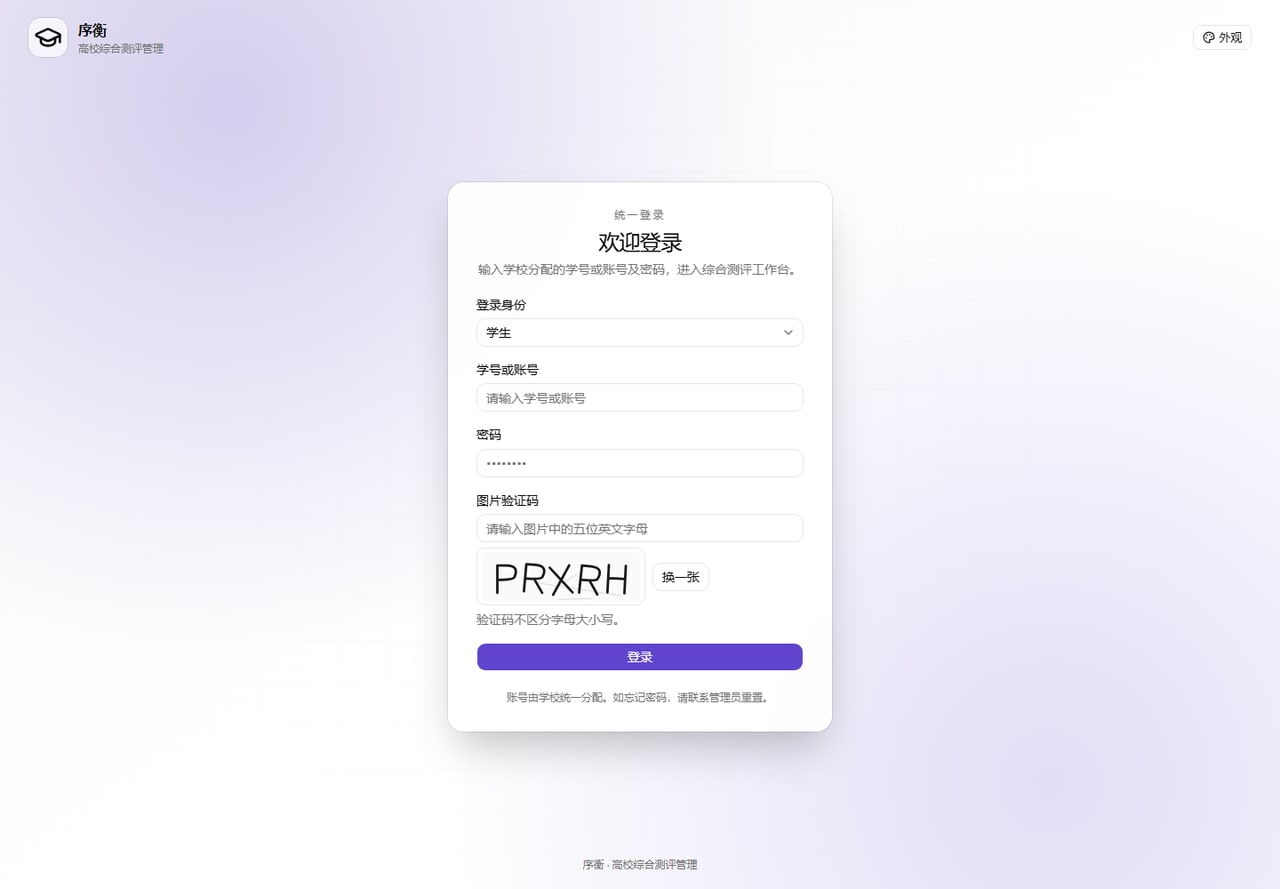
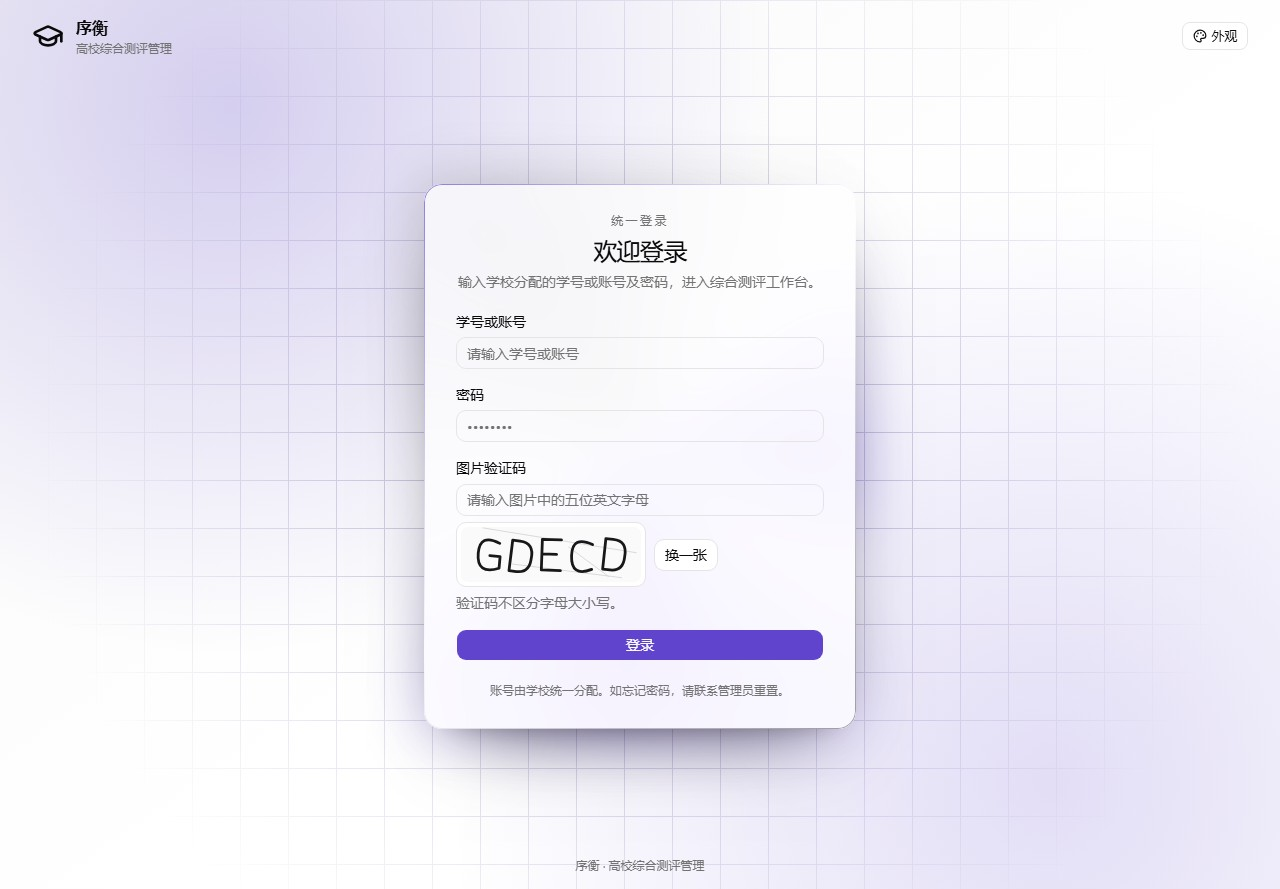
发布 0.3.6：移除登录身份选择，简化登录流程
登录页只保留账号、密码和图片验证码；服务端按账号真实角色认证与授权，不再接收所选身份，避免多一步选择和误导性失败提示。同步更新集成、E2E、HTTP 检查与毕业设计说明。

diff --git a/scripts/test-http.ts b/scripts/test-http.ts
@@ -74,14 +74,14 @@ async function main() {
         await fixture.query('UPDATE "LoginCaptcha" SET "answerHash"=$1 WHERE id=$2', [answerHash, data.id]);
         return { captchaId: data.id, captcha: "abcde" };
       }
-      async credentials(login: string, selectedRole: string, inputPassword = password, captcha?: { captchaId: string; captcha: string }) {
+      async credentials(login: string, inputPassword = password, captcha?: { captchaId: string; captcha: string }) {
         const csrf = await this.json("/api/auth/csrf");
-        const body = new URLSearchParams({ csrfToken: csrf.csrfToken, login, password: inputPassword, role: selectedRole, ...captcha ?? await this.challenge(), callbackUrl: origin, json: "true" });
+        const body = new URLSearchParams({ csrfToken: csrf.csrfToken, login, password: inputPassword, ...captcha ?? await this.challenge(), callbackUrl: origin, json: "true" });
         const response = await this.fetch("/api/auth/callback/credentials", { method: "POST", body });
         return response.json();
       }
       async login(role: string) {
-        await this.credentials(`http-${role.toLowerCase()}`, role === "PUBLISHER" ? "COLLEGE" : role);
+        await this.credentials(`http-${role.toLowerCase()}`);
         const session = await this.json("/api/auth/session"); check(session.user?.role === role, `${role}登录失败`);
       }
       async page(path: string) {
@@ -96,7 +96,7 @@ async function main() {
     check((await anonymous.fetch("/")).status === 307, "匿名工作台须重定向");
     const login = await anonymous.fetch("/login"); check(login.status === 200, "登录页失败");
     const loginHtml = await login.text();
-    check(loginHtml.includes('id="login-role"') && loginHtml.includes('id="login-captcha"'), "实际登录页缺少角色下拉或验证码字段");
+    check(loginHtml.includes('id="login-account"') && loginHtml.includes('id="login-captcha"') && !loginHtml.includes('id="login-role"'), "实际登录页缺少账号或验证码字段，或仍保留身份下拉");
     const assets = [...new Set([...loginHtml.matchAll(/(?:src|href)="([^" ]+\.(?:js|css)(?:\?[^" ]*)?)"/g)].map(m => m[1]))].filter(p => p.startsWith("/_next/"));
     check(assets.length > 0, "缺少页面静态资源");
     for (const path of assets) check((await anonymous.fetch(path)).status === 200, "静态资源不可访问");
@@ -138,13 +138,11 @@ async function main() {
     const college = new Session(), counselor = new Session();
     await college.login("COLLEGE"); await counselor.login("COUNSELOR");
     const invalidEntry = new Session();
-    await invalidEntry.credentials("http-counselor", "ADMIN");
-    check(!(await invalidEntry.json("/api/auth/session")).user, "选择管理员入口不得获得权限");
     const invalidCaptcha = await invalidEntry.challenge();
-    await invalidEntry.credentials("http-counselor", "COUNSELOR", password, { ...invalidCaptcha, captcha: "WRONG" });
-    await invalidEntry.credentials("http-counselor", "COUNSELOR", password, invalidCaptcha);
+    await invalidEntry.credentials("http-counselor", password, { ...invalidCaptcha, captcha: "WRONG" });
+    await invalidEntry.credentials("http-counselor", password, invalidCaptcha);
     check(!(await invalidEntry.json("/api/auth/session")).user, "错误或重放验证码不应登录");
-    results.push({ label: "four role dropdown login, wrong role and CAPTCHA replay denied", status: 200 });
+    results.push({ label: "four roles login without identity selection, wrong and replayed CAPTCHA denied", status: 200 });
     for (const [role, session, title] of [["COLLEGE", college, "学院工作台"], ["COUNSELOR", counselor, "辅导员工作台"]] as const) {
       await workbench(session, role, title);
       check((await session.json("/api/account")).college.id === collegeId, `${role}本人账号归属接口错误`);
@@ -192,10 +190,10 @@ async function main() {
     check((await admin.fetch("/api/admin/settings", { method: "PUT", headers: { "Content-Type": "application/json" }, body: JSON.stringify({ ...settingsPayload(originalSettings), reason: "过期保存应冲突" }) })).status === 409, "设置revision冲突保护失败");
     check((await student.fetch("/api/admin/settings", { method: "PUT", headers: { "Content-Type": "application/json" }, body: JSON.stringify({ ...settingsPayload(reread), reason: "学生不可更新安全策略" }) })).status === 403, "安全设置越权未拒绝");
     const failedLogin = new Session();
-    await failedLogin.credentials("http-counselor", "COUNSELOR", "wrong-password");
-    const lockedLogin = await failedLogin.credentials("http-counselor", "COUNSELOR", "wrong-password");
+    await failedLogin.credentials("http-counselor", "wrong-password");
+    const lockedLogin = await failedLogin.credentials("http-counselor", "wrong-password");
     check(new URL(lockedLogin.url, origin).searchParams.get("error") === "LoginLocked", "达到失败次数未锁定");
-    await failedLogin.credentials("http-counselor", "COUNSELOR");
+    await failedLogin.credentials("http-counselor");
     check(!(await failedLogin.json("/api/auth/session")).user, "锁定期间正确密码不应登录");
     check((await counselor.json("/api/account")).role === "COUNSELOR", "失败限制不应撤销已有有效会话");
     await admin.json("/api/admin/settings", { ...settingsPayload(originalSettings), revision: reread.revision, reason: "验证后恢复原始设置" }, "PUT");

diff --git a/src/server/auth.ts b/src/server/auth.ts
@@ -17,7 +17,7 @@ export const authOptions: NextAuthOptions = {
   secret: process.env.NEXTAUTH_SECRET,
   session: { strategy: "jwt", maxAge: 8 * 60 * 60 },
   pages: { signIn: "/login", error: "/login" },
-  providers: [credentialsProvider({ name: "账号密码", credentials: { login: {}, password: {}, role: {}, captchaId: {}, captcha: {} }, authorize: authenticateCredentials })],
+  providers: [credentialsProvider({ name: "账号密码", credentials: { login: {}, password: {}, captchaId: {}, captcha: {} }, authorize: authenticateCredentials })],
   callbacks: {
     async jwt({ token, user }) { if (user) token.sessionId = user.sessionId; return token; },
     async session({ session, token }) {
@@ -30,13 +30,10 @@ export const authOptions: NextAuthOptions = {
   logger: { error(code) { console.error("认证服务错误", code); }, warn(code) { console.warn("认证服务提示", code); }, debug() {} },
 };
 
-export function matchesLoginRole(actual: string, selected: string) {
-  return actual === selected || (actual === "PUBLISHER" && selected === "COLLEGE");
-}
 export async function authenticateCredentials(raw: unknown) {
-  const parsed = z.object({ login: z.string().trim().min(1).max(64), password: z.string().min(1).max(128), role: z.enum(["ADMIN", "COLLEGE", "COUNSELOR", "STUDENT"]).optional(), captchaId: z.string().uuid(), captcha: z.string().trim().regex(/^[a-zA-Z]{5}$/) }).safeParse(raw);
+  const parsed = z.object({ login: z.string().trim().min(1).max(64), password: z.string().min(1).max(128), captchaId: z.string().uuid(), captcha: z.string().trim().regex(/^[a-zA-Z]{5}$/) }).safeParse(raw);
   if (!parsed.success) return null;
-  const { login, password, role, captchaId, captcha } = parsed.data;
+  const { login, password, captchaId, captcha } = parsed.data;
   // Never trust proxy headers for authentication throttling. This is only a
   // coarse flood guard; per-account failure limits are configured in 系统设置.
   if (!(await consumeLimit("login-global", "local", 1200))) {
@@ -70,7 +67,7 @@ export async function authenticateCredentials(raw: unknown) {
       }
     }
     const current = user ? await tx.user.findUnique({ where: { id: user.id } }) : null;
-    if (!user || !valid || !current || current.disabled || current.authVersion !== user.authVersion || current.passwordHash !== user.passwordHash || (role && !matchesLoginRole(current.role, role))) {
+    if (!user || !valid || !current || current.disabled || current.authVersion !== user.authVersion || current.passwordHash !== user.passwordHash) {
       if (policy.loginFailureLimitEnabled) {
         failures += 1;
         const lockedUntil = failures >= policy.loginFailureMaxAttempts ? new Date(now.getTime() + policy.loginFailureLockMinutes * 60_000) : null;
@@ -80,7 +77,7 @@ export async function authenticateCredentials(raw: unknown) {
           return { kind: "locked" } as const;
         }
       }
-      await recordSecurityAuditBestEffort(tx, { action: "AUTH_LOGIN_FAILED", result: "FAILURE", details: { login: login.slice(0, 3) + "***", selectedRole: role ?? null, accountDisabled: current?.disabled ?? false } });
+      await recordSecurityAuditBestEffort(tx, { action: "AUTH_LOGIN_FAILED", result: "FAILURE", details: { login: login.slice(0, 3) + "***", accountDisabled: current?.disabled ?? false } });
       return { kind: "invalid" } as const;
     }
     await tx.loginFailureState.deleteMany({ where: { key } });

diff --git a/src/app/login/_components/login-form.tsx b/src/app/login/_components/login-form.tsx
@@ -18,13 +18,6 @@ import {
 } from "@/components/ui/field";
 import { Input } from "@/components/ui/input";
 import { Feedback } from "@/components/dashboard/feedback";
-import {
-	Select,
-	SelectTrigger,
-	SelectValue,
-	SelectContent,
-	SelectItem,
-} from "@/components/ui/select";
 
 const formSchema = z.object({
 	login: z
@@ -39,15 +32,7 @@ const formSchema = z.object({
 		.regex(/^[A-Za-z]{5}$/, "请输入图片中的五位英文字母"),
 });
 
-const roles = [
-	{ value: "STUDENT", label: "学生" },
-	{ value: "COUNSELOR", label: "辅导员" },
-	{ value: "COLLEGE", label: "二级学院" },
-	{ value: "ADMIN", label: "管理员" },
-];
-
-type CaptchaChallenge = { id: string; image: string; expiresAt: string };
-async function readCaptcha(signal?: AbortSignal): Promise<CaptchaChallenge> {
+type CaptchaChallenge = { id: string; image: string; expiresAt: string };async function readCaptcha(signal?: AbortSignal): Promise<CaptchaChallenge> {
 	const response = await fetch("/api/auth/captcha", {
 		cache: "no-store",
 		signal,
@@ -65,7 +50,6 @@ async function readCaptcha(signal?: AbortSignal): Promise<CaptchaChallenge> {
 export function LoginForm() {
 	const router = useRouter();
 	const [error, setError] = useState("");
-	const [role, setRole] = useState("STUDENT");
 	const [challenge, setChallenge] = useState<{
 		id: string;
 		image: string;
@@ -122,7 +106,6 @@ export function LoginForm() {
 		try {
 			const result = await signIn("credentials", {
 				...data,
-				role,
 				captchaId: challenge.id,
 				redirect: false,
 			});
@@ -133,7 +116,7 @@ export function LoginForm() {
 						: result?.error === "LoginLocked"
 							? "连续登录失败已达到限制，请稍后再试。"
 							: result?.error === "CredentialsSignin"
-								? "账号、密码或登录身份不正确，请核对后重试。"
+								? "账号或密码不正确，请核对后重试。"
 								: "暂时无法登录，请稍后重试。",
 				);
 				await refreshCaptcha();
@@ -154,32 +137,6 @@ export function LoginForm() {
 			className="flex flex-col gap-4"
 		>
 			<Feedback error={error} />
-			<Field className="gap-1.5">
-				<FieldLabel htmlFor="login-role">登录身份</FieldLabel>
-				<Select
-					items={roles}
-					value={role}
-					disabled={form.formState.isSubmitting}
-					onValueChange={(next) => {
-						if (!next) return;
-						setRole(next);
-						form.setValue("password", "", { shouldDirty: false });
-						form.clearErrors();
-						setError("");
-					}}
-				>
-					<SelectTrigger id="login-role" className="w-full">
-						<SelectValue />
-					</SelectTrigger>
-					<SelectContent>
-						{roles.map(({ value, label }) => (
-							<SelectItem key={value} value={value}>
-								{label}
-							</SelectItem>
-						))}
-					</SelectContent>
-				</Select>
-			</Field>
 			<FieldGroup className="gap-4">
 				<Controller
 					control={form.control}

diff --git a/tests/e2e/import-entry.spec.ts b/tests/e2e/import-entry.spec.ts
@@ -63,7 +63,7 @@ for (const role of [
 		test.skip(!ids.activity, "缺少可用周期、学院账号或活动计分项");
 		test.setTimeout(120_000);
 		await page.setViewportSize({ width: 1440, height: 900 });
-		await login(page, role.label, role.login, role.password);
+		await login(page, role.login, role.password);
 		await page.goto(`/activities/${ids.activity}?termId=${ids.term}`, {
 			waitUntil: "networkidle",
 		});
@@ -97,7 +97,7 @@ for (const role of [
 test("管理员可在导入页切换账号、成绩与参与名单", async ({ page }) => {
 	test.setTimeout(120_000);
 	await page.setViewportSize({ width: 1440, height: 900 });
-	await login(page, "管理员", process.env.E2E_ADMIN_LOGIN!, process.env.E2E_ADMIN_PASSWORD!);
+	await login(page, process.env.E2E_ADMIN_LOGIN!, process.env.E2E_ADMIN_PASSWORD!);
 	await page.goto("/imports", { waitUntil: "networkidle" });
 	const tabs = page.getByRole("navigation", { name: "导入类型" });
 	await expect(tabs.getByRole("link", { name: "学生账号" })).toHaveAttribute("aria-current", "page");

diff --git a/tests/e2e/student-results.spec.ts b/tests/e2e/student-results.spec.ts
@@ -13,7 +13,7 @@ function skipWithoutStudentAccount() {
 }
 
 async function signInStudent(page: Page) {
-	await login(page, "学生", studentLogin!, studentPassword!);
+	await login(page, studentLogin!, studentPassword!);
 }
 
 async function openOwnResult(page: Page) {
@@ -347,7 +347,7 @@ test.describe("学生成绩页 - 管理员查看", () => {
 
 	test("管理员查看学生扣分依据与变更记录", async ({ page }) => {
 		test.skip(!adminLogin || !adminPassword, "未配置管理员验收账号");
-		await login(page, "管理员", adminLogin!, adminPassword!);
+		await login(page, adminLogin!, adminPassword!);
 		const terms = await page.evaluate(async () => {
 			const response = await fetch("/api/terms");
 			return (await response.json()) as { id: string; phase: string }[];

diff --git a/tests/e2e/login.ts b/tests/e2e/login.ts
@@ -1,10 +1,8 @@
 import { expect, type Page } from "@playwright/test";
 import { solveCaptcha } from "./captcha";
 
-export async function login(page: Page, roleLabel: string, loginName: string, password: string) {
+export async function login(page: Page, loginName: string, password: string) {
 	await page.goto("/login");
-	await page.getByLabel("登录身份").click();
-	await page.getByRole("option", { name: roleLabel }).click();
 	await page.getByLabel("学号或账号").fill(loginName);
 	await page.getByLabel("密码", { exact: true }).fill(password);
 	const captcha = page.getByAltText("英文验证码，点击可更换");

diff --git a/src/server/backup.ts b/src/server/backup.ts
@@ -39,7 +39,7 @@ import {
 
 export const backupFilesRoot = () => join(backupRoot(), "backups");
 const volumeMaxBytes = Math.max(Number(process.env.BACKUP_VOLUME_MAX_BYTES ?? 5 * 1024 ** 3) || 5 * 1024 ** 3, 512 * 1024 ** 2);
-const appVersion = process.env.APP_VERSION?.trim() || process.env.npm_package_version?.trim() || "0.3.5";
+const appVersion = process.env.APP_VERSION?.trim() || process.env.npm_package_version?.trim() || "0.3.6";
 const gitRevision = process.env.GIT_SHA?.trim() || process.env.NEXT_PUBLIC_GIT_SHA?.trim() || "unknown";
 const staleRunningMs = 10 * 60_000;
 

diff --git a/tests/e2e/quick-scheme.spec.ts b/tests/e2e/quick-scheme.spec.ts
@@ -113,8 +113,6 @@ test("快速评分卡读取、修改、校验、恢复、移动和开启申报",
 }) => {
 	test.setTimeout(120_000);
 	await page.goto("/login");
-	await page.getByLabel("登录身份").click();
-	await page.getByRole("option", { name: "管理员" }).click();
 	await page.getByLabel("学号或账号").fill(`${prefix}-admin`);
 	await page.getByLabel("密码", { exact: true }).fill(password);
 	const captcha = page.getByAltText("英文验证码，点击可更换");

diff --git a/tests/e2e/diagnostic.spec.ts b/tests/e2e/diagnostic.spec.ts
@@ -41,7 +41,7 @@ for (const role of roles) {
 		page.on("response", (response) => {
 			if (response.status() >= 400) errors.push(`http ${response.status()}: ${response.url()}`);
 		});
-		await login(page, role.label, role.login, role.password);
+		await login(page, role.login, role.password);
 		for (const route of role.routes) {
 			errors.length = 0;
 			const response = await page.goto(route, { waitUntil: "networkidle" });
